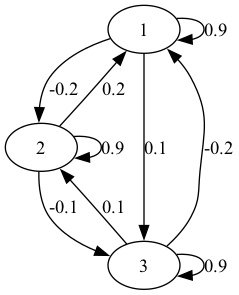
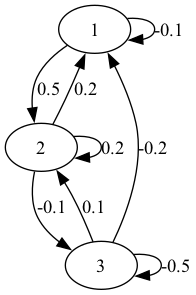
proper documentation and commets for the ctrnn module (except for the 'create' method)

Changed region(s): [[0.0, 0.0, 0.9796, 1.0], [0.6429, 0.3051, 0.6735, 0.3661]]

diff --git a/neat/ctrnn/__init__.py b/neat/ctrnn/__init__.py
@@ -1,11 +1,21 @@
+from typing import Callable, List, Tuple, Dict, Optional
+
 """Handles the continuous-time recurrent neural network implementation."""
-
-
 from neat.graphs import required_for_output
 
-
 class CTRNNNodeEval(object):
-    def __init__(self, time_constant, activation, aggregation, bias, response, links):
+    def __init__(self, time_constant: float, activation: Callable, aggregation: Callable, 
+                 bias: float, response: float, links: List[Tuple[int, float]]):
+        """
+        Initialize a CTRNN node evaluation.
+        Args:
+            time_constant: The time constant of the node.
+            activation: The activation function of the node.
+            aggregation: The aggregation function of the node.
+            bias: The bias term of the node.
+            response: The response term of the node.
+            links: The links from other nodes (incoming connections).
+        """
         self.time_constant = time_constant
         self.activation = activation
         self.aggregation = aggregation
@@ -16,16 +26,26 @@ class CTRNNNodeEval(object):
 
 class CTRNN(object):
     """Sets up the ctrnn network itself."""
-    def __init__(self, inputs, outputs, node_evals):
+    def __init__(self, inputs: List[int], outputs: List[int], node_evals: Dict[int, CTRNNNodeEval]):
+        """
+        Initialize the CTRNN with the given input and output nodes, and node evaluations.
+        Args:
+            inputs: The input node IDs.
+            outputs: The output node IDs.
+            node_evals: A dictionary mapping node IDs to their evaluations (CTRNNNodeEval objects).
+        """
         self.input_nodes = inputs
         self.output_nodes = outputs
         self.node_evals = node_evals
 
         self.values = [{}, {}]
         for v in self.values:
+            # setting the initial value of all input and output nodes to 0.0
             for k in inputs + outputs:
                 v[k] = 0.0
 
+            # for every node that is (possibly) not an input or output but is part of an
+            # active network - setting its initial value to 0.0
             for node, ne in self.node_evals.items():
                 v[node] = 0.0
                 for i, w in ne.links:
@@ -35,11 +55,20 @@ class CTRNN(object):
         self.time_seconds = 0.0
 
     def reset(self):
+        """
+        Reset the CTRNN to its initial state. (I.e. all node values to 0.0, and all time-related variables to 0.0)
+        """
         self.values = [dict((k, 0.0) for k in v) for v in self.values]
         self.active = 0
         self.time_seconds = 0.0
 
-    def set_node_value(self, node_key, value):
+    def set_node_value(self, node_key: int, value: float):
+        """
+        Set a value of a specific node.
+        Args:
+            node_key: The ID of the node to set the value for.
+            value: The value to set for the node.
+        """
         for v in self.values:
             v[node_key] = value
 
@@ -49,10 +78,16 @@ class CTRNN(object):
         # pylint: disable=no-self-use
         raise NotImplementedError()
 
-    def advance(self, inputs, advance_time, time_step=None):
+    def advance(self, inputs: List[float], advance_time: float, time_step: Optional[float] = None):
         """
         Advance the simulation by the given amount of time, assuming that inputs are
         constant at the given values during the simulated time.
+        Args:
+            inputs: The input values to the network.
+            advance_time: The amount of time to advance the simulation.
+            time_step: The time step to use for the simulation.
+        Returns:
+            The output values of the network after the simulation.
         """
         final_time_seconds = self.time_seconds + advance_time
 
@@ -61,23 +96,34 @@ class CTRNN(object):
             time_step = 0.5 * self.get_max_time_step()
 
         if len(self.input_nodes) != len(inputs):
-            raise RuntimeError("Expected {0} inputs, got {1}".format(len(self.input_nodes), len(inputs)))
+            raise RuntimeError(f"Expected {len(self.input_nodes)} inputs, got {len(inputs)}")
 
         while self.time_seconds < final_time_seconds:
+            # Ensure time_step is not None and is a float
+            assert time_step is not None, "time_step must be a float"
             dt = min(time_step, final_time_seconds - self.time_seconds)
 
+            # self.values is a list containing two dictionaries, such that during the simulation step
+            # one is maintained and the other is updated.
             ivalues = self.values[self.active]
             ovalues = self.values[1 - self.active]
             self.active = 1 - self.active
 
+            # all nodes that have an input are set to that value
             for i, v in zip(self.input_nodes, inputs):
                 ivalues[i] = v
                 ovalues[i] = v
 
+            # for every node in the network, compute its new value
             for node_key, ne in self.node_evals.items():
+                # the input for a given node is the weighted sum of its inputs
                 node_inputs = [ivalues[i] * w for i, w in ne.links]
+                # compute the node's new state by:
+                # aggregating the inputs
                 s = ne.aggregation(node_inputs)
+                # applying the activation function
                 z = ne.activation(ne.bias + ne.response * s)
+                # updating the output value (new value of that node)
                 ovalues[node_key] += dt / ne.time_constant * (-ovalues[node_key] + z)
 
             self.time_seconds += dt
@@ -87,7 +133,9 @@ class CTRNN(object):
 
     @staticmethod
     def create(genome, config, time_constant):
-        """ Receives a genome and returns its phenotype (a CTRNN). """
+        """ 
+        Receives a genome and returns its phenotype (a CTRNN). 
+        """
         genome_config = config.genome_config
         required = required_for_output(genome_config.input_keys, genome_config.output_keys, genome.connections)
 

diff --git a/ctrnn.py b/ctrnn.py
@@ -7,9 +7,9 @@ from neat.activations import sigmoid_activation
 from ctrnn_visualize import draw_ctrnn_net, draw_ctrnn_dynamics, draw_ctrnn_face_portrait
 
 # Create a fully-connected network of two neurons with no external inputs.
-node1_inputs = [(1, 0.9), (2, 0.2), (3, -0.2)]
-node2_inputs = [(1, -0.2), (2, 0.9), (3, 0.1)]
-node3_inputs = [(1, 0.1), (2, -0.1), (3, 0.9)]
+node1_inputs = [(1, -0.1), (2, 0.2), (3, -0.2)]
+node2_inputs = [(1, 0.5), (2, 0.2), (3, 0.1)]
+node3_inputs = [(2, -0.1), (3, -0.5)]
 
 draw_ctrnn_net([1, 2, 3], {1: node1_inputs, 2: node2_inputs, 3: node3_inputs})
 
